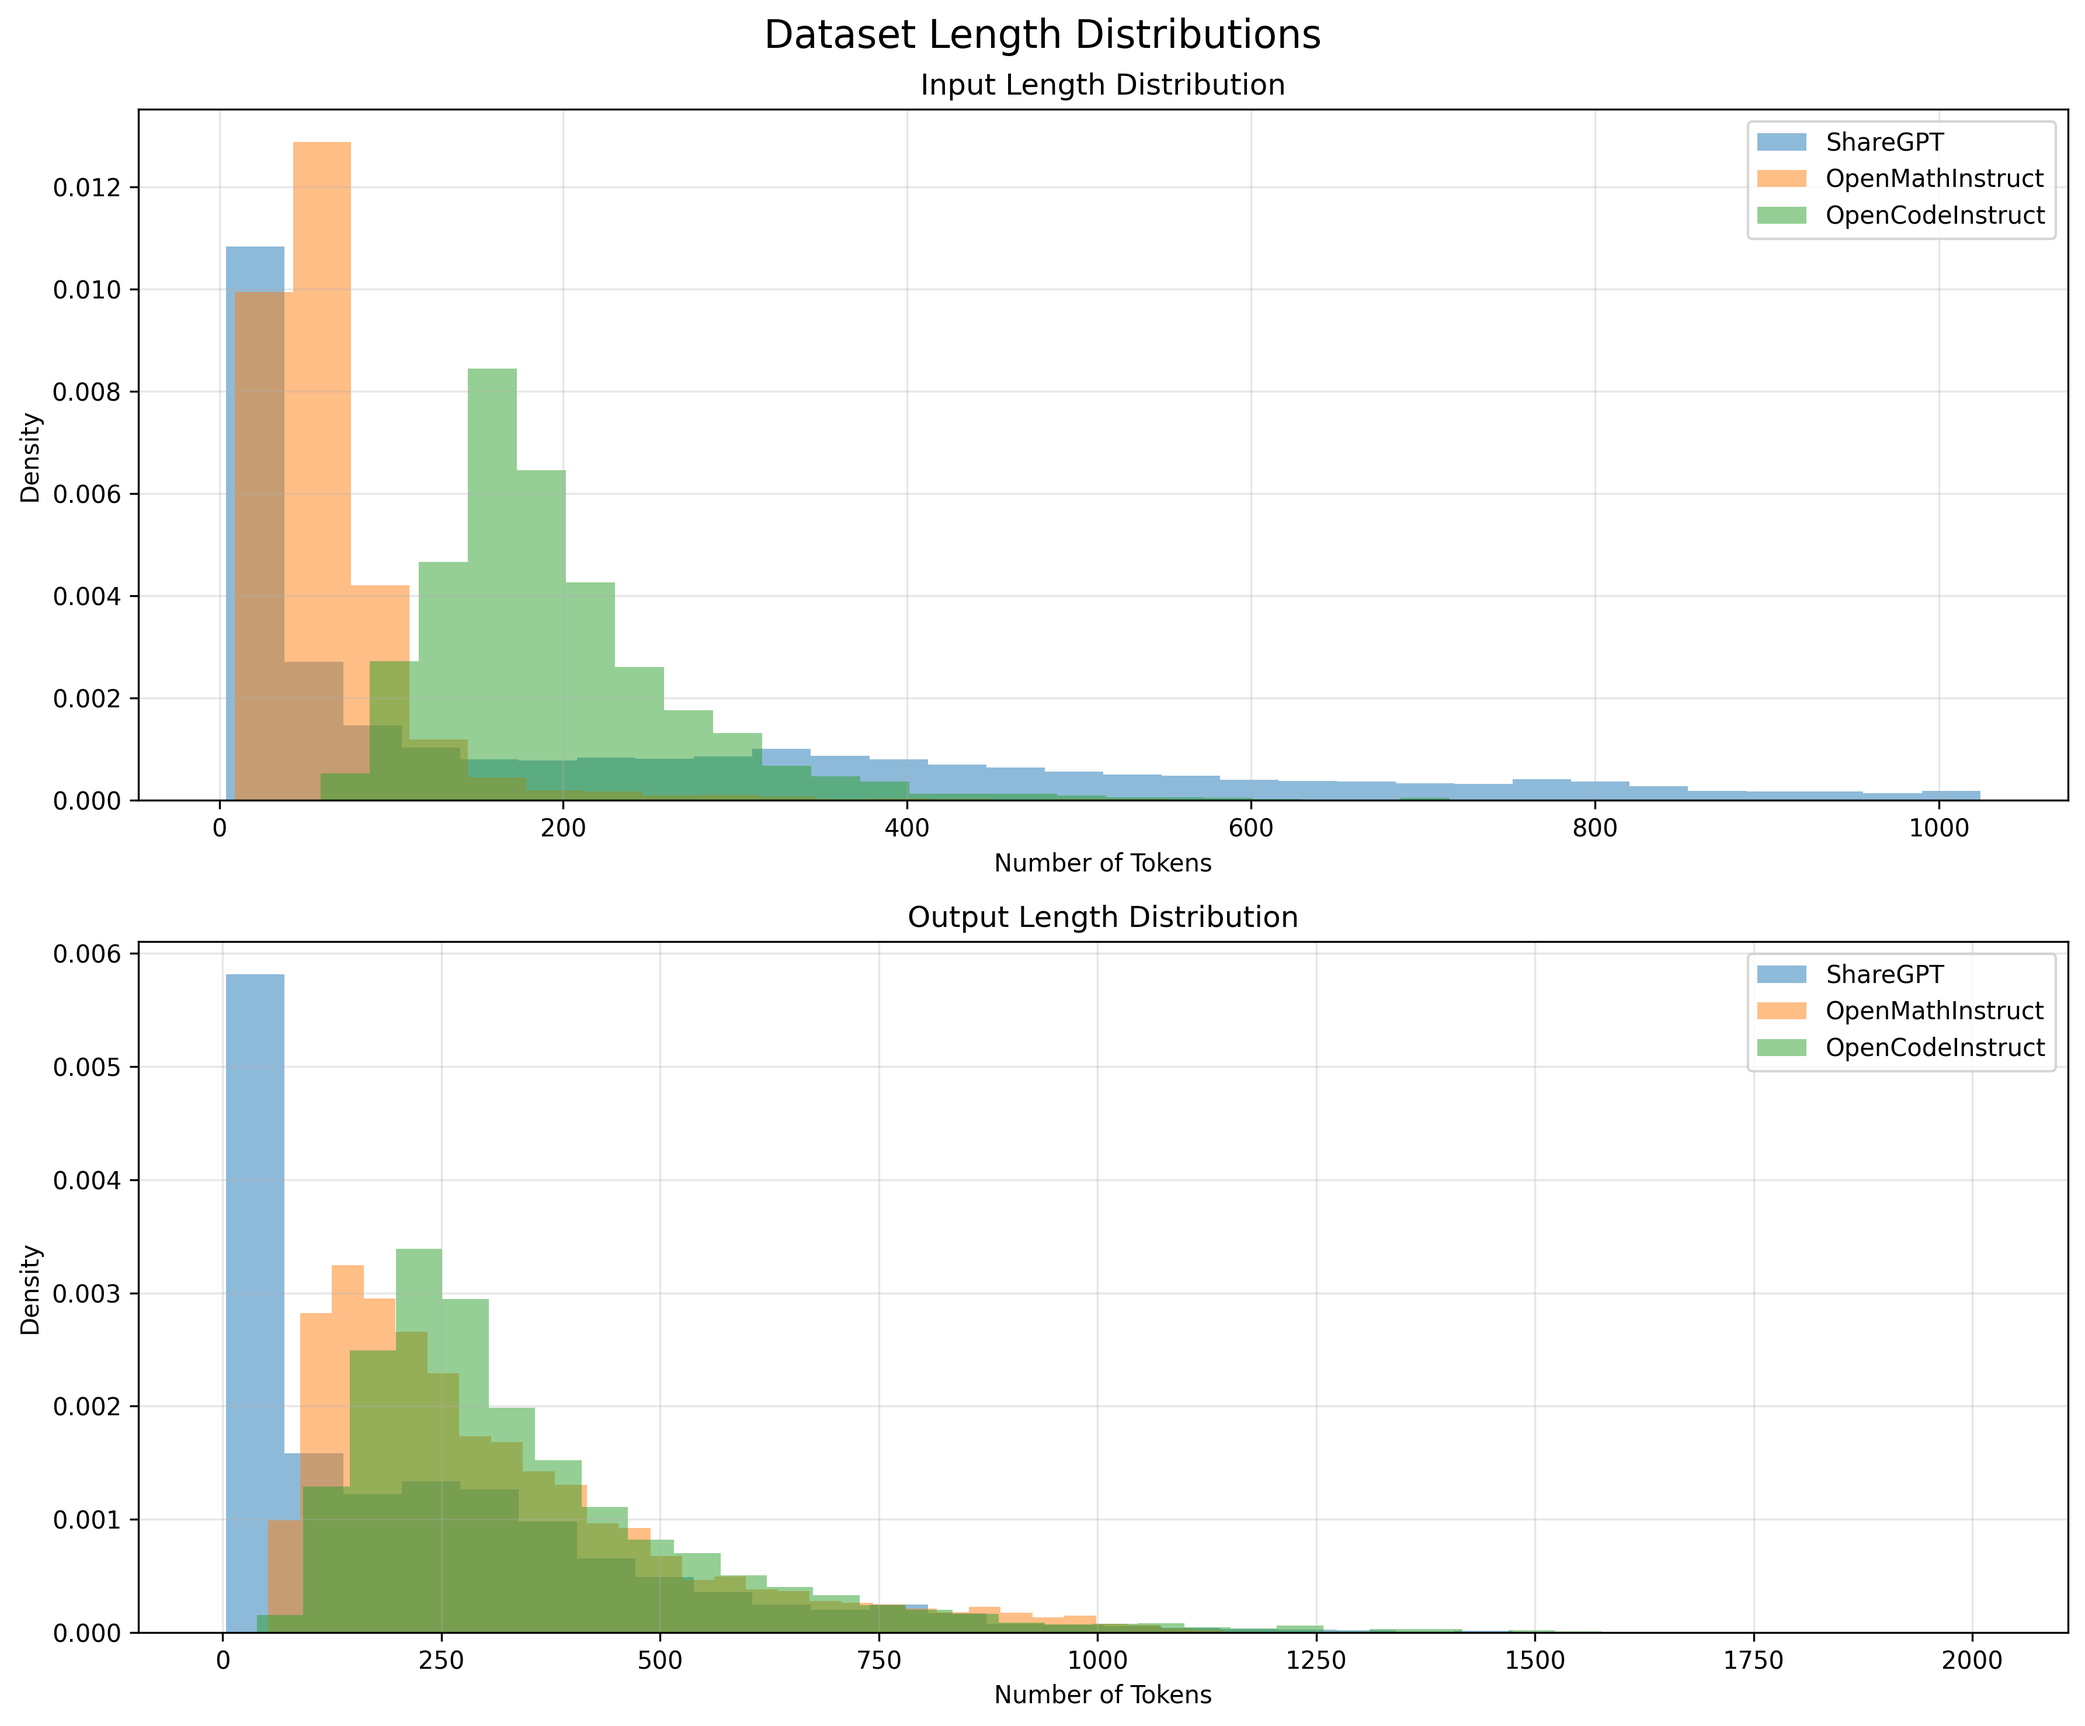
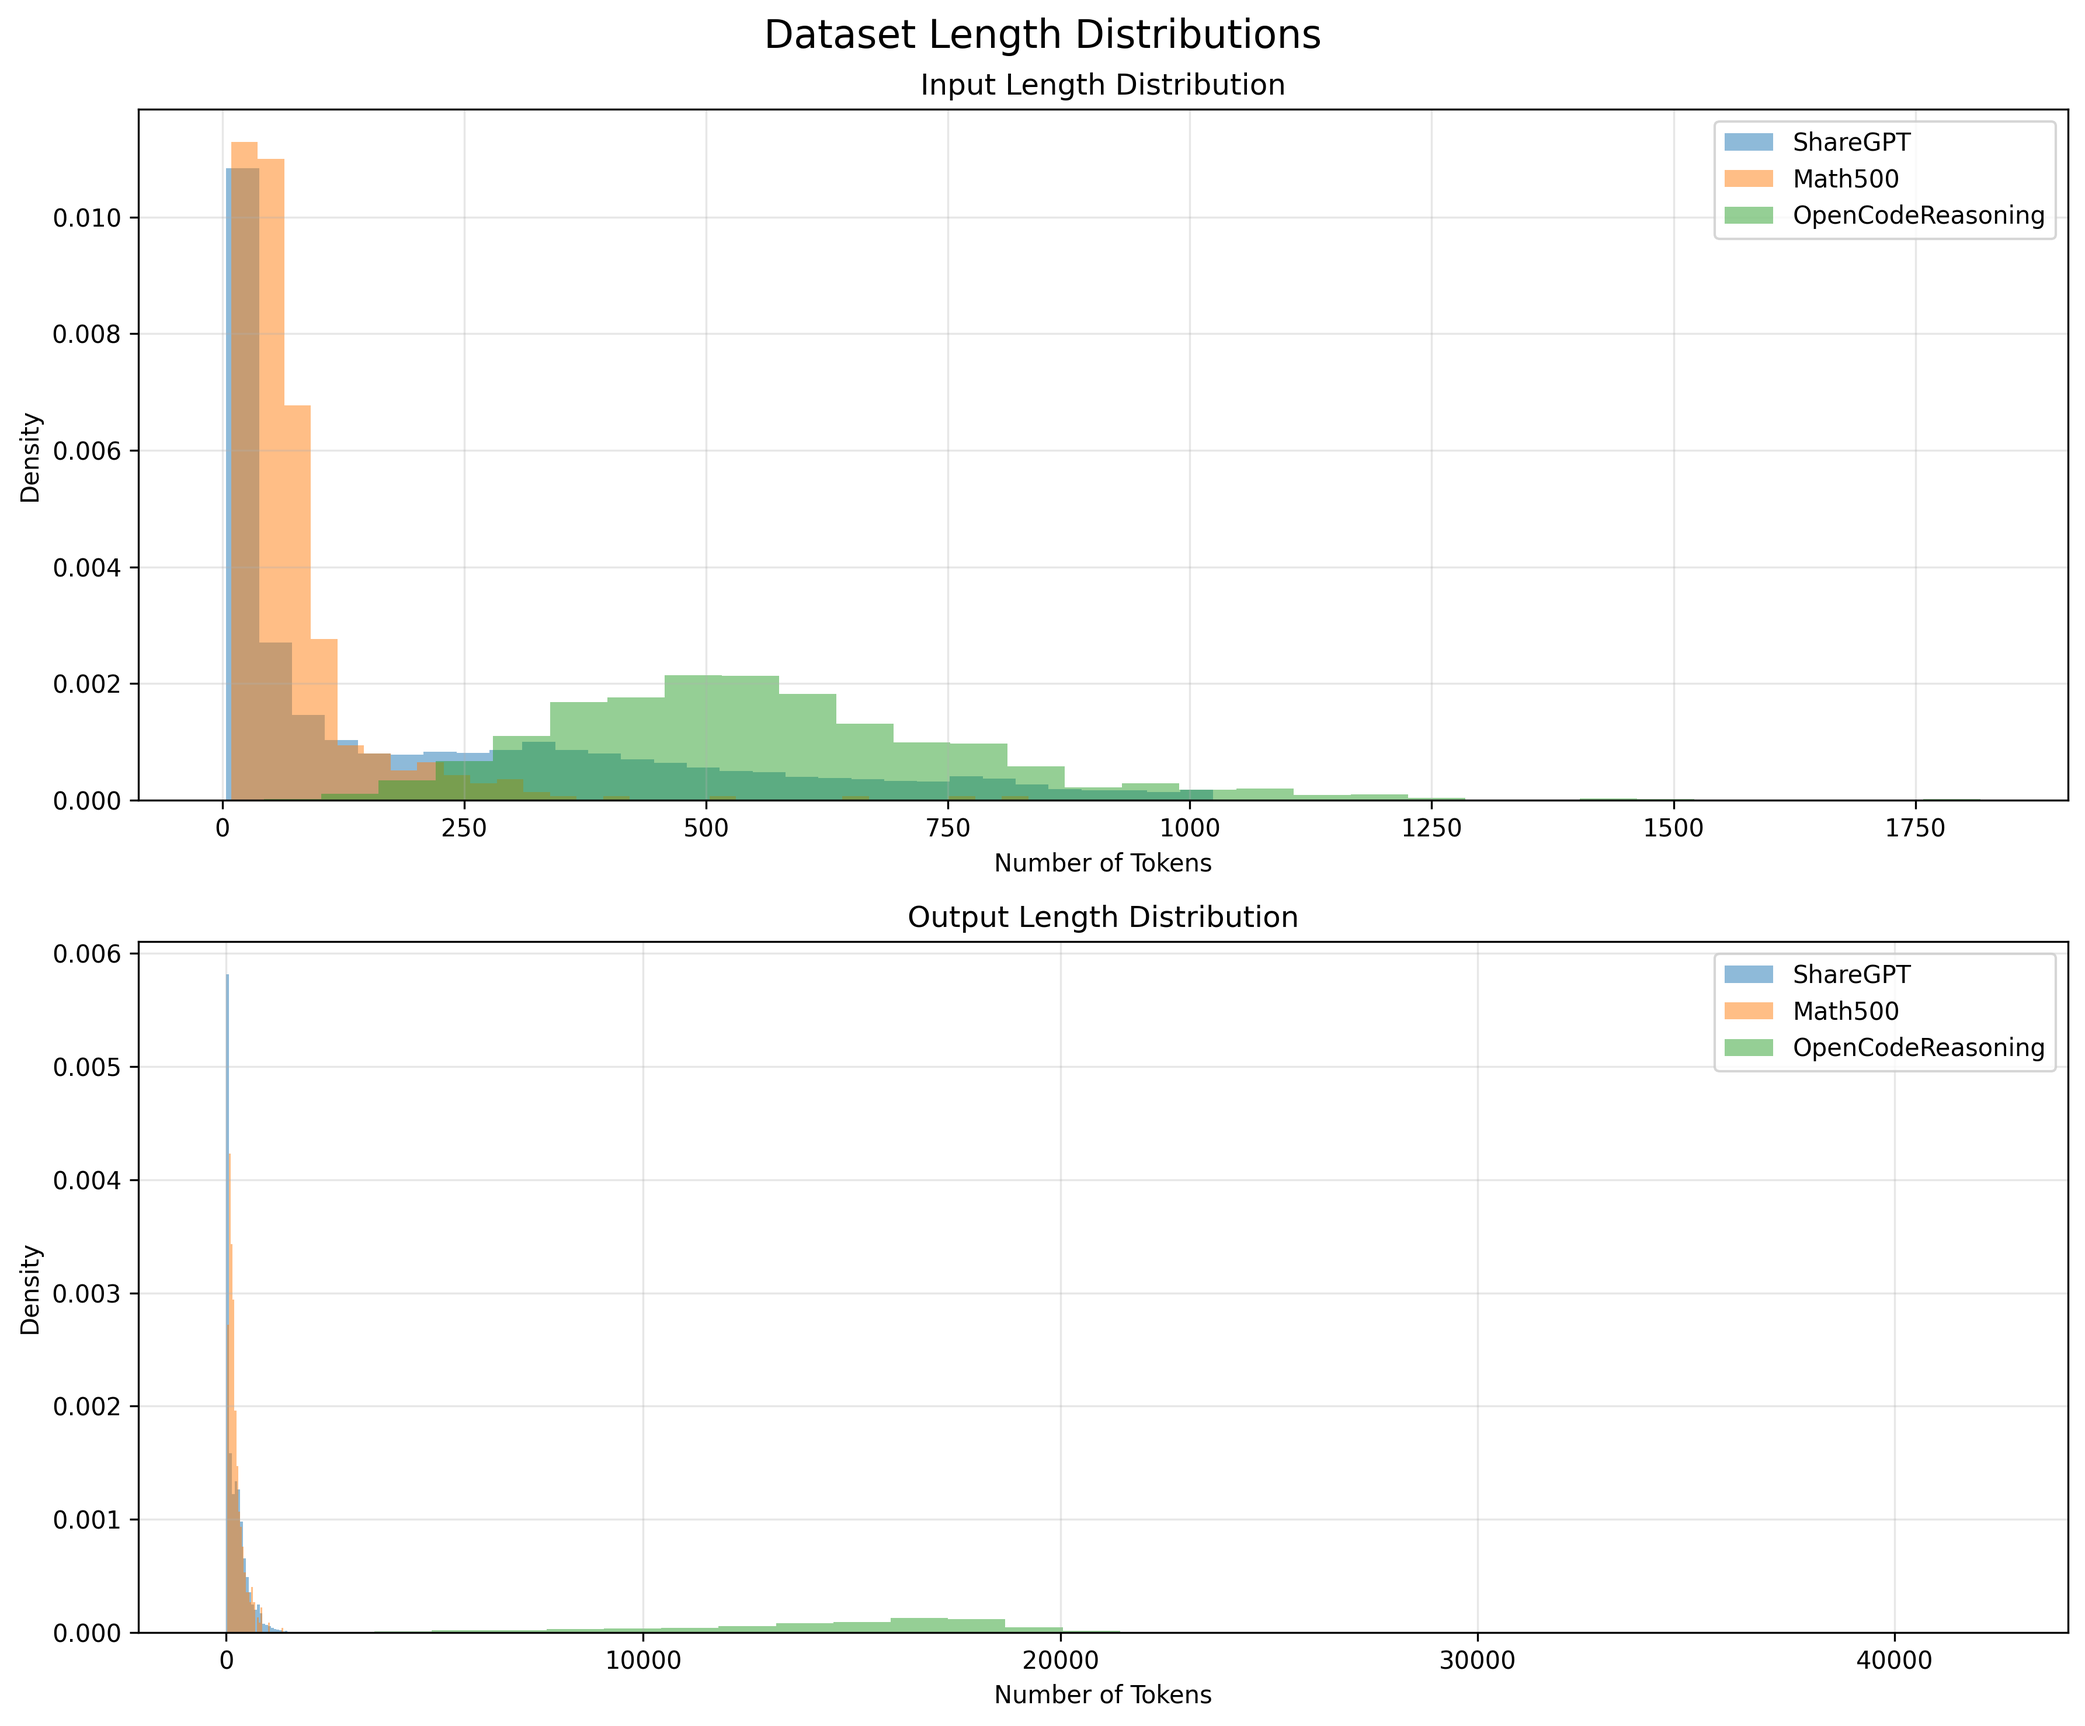
.

diff --git a/benchmarks/plot_dataset.py b/benchmarks/plot_dataset.py
@@ -4,7 +4,7 @@ from benchmark_dataset import (AIMODataset, ASRDataset, BurstGPTDataset,
                                 SampleRequest, ShareGPTDataset, SonnetDataset,
                                 VisionArenaDataset, GSM8KDataset, NaturalQuestionsDataset,
                                 HumanEvalDataset, PythonAlpacaDataset, OpenCodeInstructDataset,
-                                OpenMathInstructDataset)
+                                OpenMathInstructDataset, OpenCodeReasoningDataset, Math500Dataset)
 try:
     from vllm.transformers_utils.tokenizer import get_tokenizer
 except ImportError:
@@ -40,6 +40,13 @@ openmath_dataset = OpenMathInstructDataset(random_seed=seed,
 open_code_instruct_dataset = OpenCodeInstructDataset(random_seed=seed,
                     dataset_path="nvidia/OpenCodeInstruct", 
                     dataset_split="train").sample_all(tokenizer=tokenizer)
+open_code_reasoning_dataset = OpenCodeReasoningDataset(random_seed=seed,
+                    dataset_path="nvidia/OpenCodeReasoning", 
+                    dataset_split="split_0", 
+                    dataset_subset="split_0").sample_all(tokenizer=tokenizer)
+math500_dataset = Math500Dataset(random_seed=seed,
+                    dataset_path="HuggingFaceH4/MATH-500", 
+                    dataset_split="test").sample_all(tokenizer=tokenizer)
 # open_math_reasoning_dataset = OpenMathReasoningDataset(random_seed=seed,
 #                     dataset_path="nvidia/OpenMathReasoning", 
 #                     dataset_split="cot").sample_all(tokenizer=tokenizer)
@@ -59,8 +66,8 @@ open_code_instruct_dataset = OpenCodeInstructDataset(random_seed=seed,
 
 datasets = {
     'ShareGPT': sharegpt_dataset,
-    'OpenMathInstruct': openmath_dataset,
-    'OpenCodeInstruct': open_code_instruct_dataset,
+    'Math500': math500_dataset,
+    'OpenCodeReasoning': open_code_reasoning_dataset
 }
 
 # Create figure with subplots
